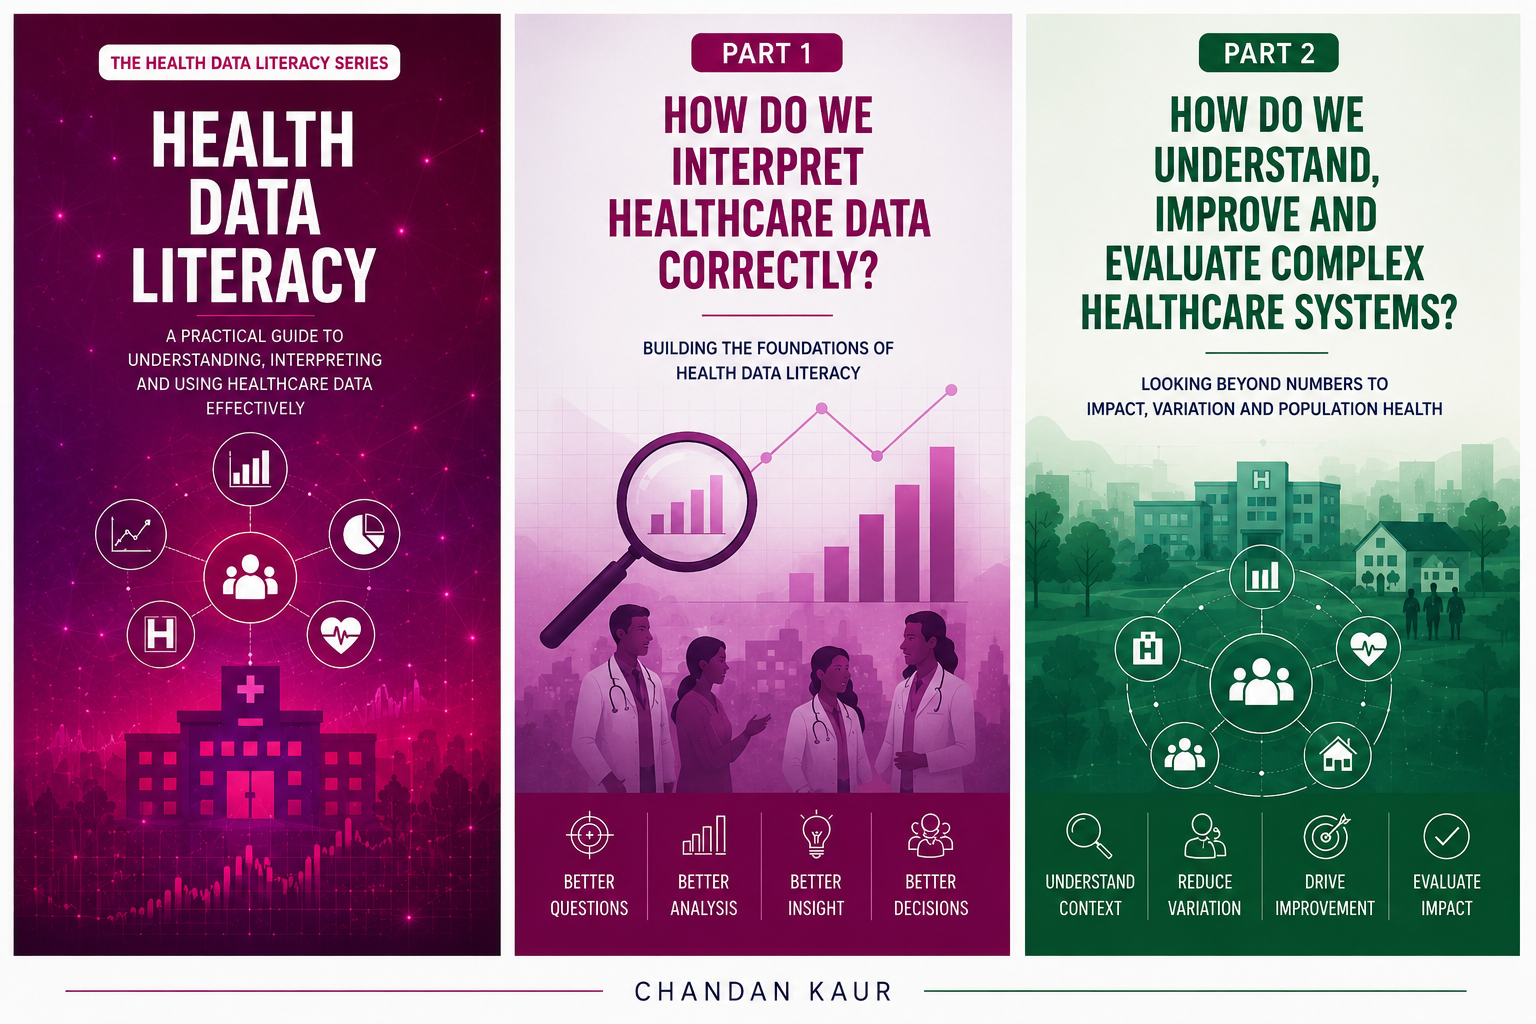
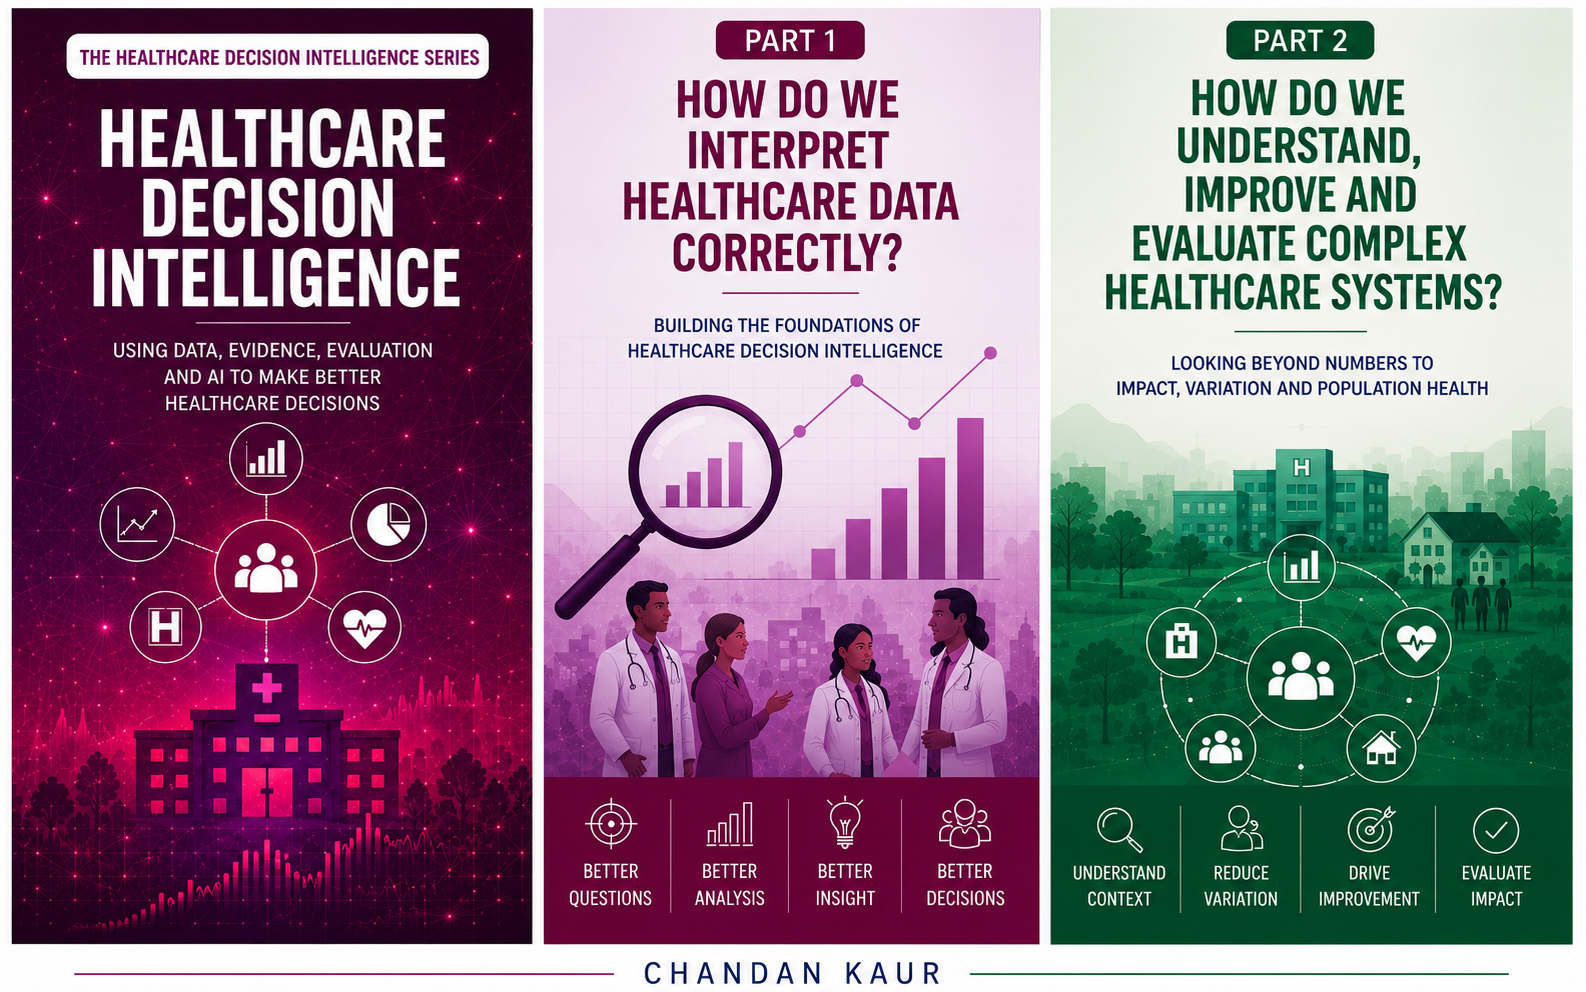
Built site for gh-pages

diff --git a/Project.html b/Project.html
@@ -7,7 +7,7 @@
 <meta name="viewport" content="width=device-width, initial-scale=1.0, user-scalable=yes">
 
 
-<title>Project - Health Data Literacy Series – Health Data Literacy</title>
+<title>Project - Healthcare Decision Intelligence Series – Health Data Literacy</title>
 <style>
 /* Default styles provided by pandoc.
 ** See https://pandoc.org/MANUAL.html#variables-for-html for config info.
@@ -98,7 +98,7 @@ ul.task-list li input[type="checkbox"] {
       <button type="button" class="quarto-btn-toggle btn" data-bs-toggle="collapse" role="button" data-bs-target=".quarto-sidebar-collapse-item" aria-controls="quarto-sidebar" aria-expanded="false" aria-label="Toggle sidebar navigation" onclick="if (window.quartoToggleHeadroom) { window.quartoToggleHeadroom(); }">
         <i class="bi bi-layout-text-sidebar-reverse"></i>
       </button>
-        <nav class="quarto-page-breadcrumbs" aria-label="breadcrumb"><ol class="breadcrumb"><li class="breadcrumb-item"><a href="./Project.html"><span class="chapter-title">Project - Health Data Literacy Series</span></a></li></ol></nav>
+        <nav class="quarto-page-breadcrumbs" aria-label="breadcrumb"><ol class="breadcrumb"><li class="breadcrumb-item"><a href="./Project.html"><span class="chapter-title">Project - Healthcare Decision Intelligence Series</span></a></li></ol></nav>
         <a class="flex-grow-1" role="navigation" data-bs-toggle="collapse" data-bs-target=".quarto-sidebar-collapse-item" aria-controls="quarto-sidebar" aria-expanded="false" aria-label="Toggle sidebar navigation" onclick="if (window.quartoToggleHeadroom) { window.quartoToggleHeadroom(); }">      
         </a>
       <button type="button" class="btn quarto-search-button" aria-label="Search" onclick="window.quartoOpenSearch();">
@@ -215,7 +215,7 @@ ul.task-list li input[type="checkbox"] {
 </li>
         <li class="sidebar-item">
   <div class="sidebar-item-container"> 
-  <a href="./Project.html" class="sidebar-item-text sidebar-link active"><span class="chapter-title">Project - Health Data Literacy Series</span></a>
+  <a href="./Project.html" class="sidebar-item-text sidebar-link active"><span class="chapter-title">Project - Healthcare Decision Intelligence Series</span></a>
   </div>
 </li>
     </ul>
@@ -228,7 +228,7 @@ ul.task-list li input[type="checkbox"] {
     <h2 id="toc-title">Table of contents</h2>
    
   <ul>
-  <li><a href="#supporting-better-questions-better-analysis-better-decisions-in-health" id="toc-supporting-better-questions-better-analysis-better-decisions-in-health" class="nav-link active" data-scroll-target="#supporting-better-questions-better-analysis-better-decisions-in-health">Supporting Better Questions, Better Analysis &amp; Better Decisions in Health</a></li>
+  <li><a href="#using-data-evidence-evaluation-and-ai-to-make-better-healthcare-decisions" id="toc-using-data-evidence-evaluation-and-ai-to-make-better-healthcare-decisions" class="nav-link active" data-scroll-target="#using-data-evidence-evaluation-and-ai-to-make-better-healthcare-decisions">Using Data, Evidence, Evaluation and AI to Make Better Healthcare Decisions</a></li>
   <li><a href="#project-overview" id="toc-project-overview" class="nav-link" data-scroll-target="#project-overview">Project Overview</a>
   <ul class="collapse">
   <li><a href="#the-series-aims-to-bridge-the-gap-between" id="toc-the-series-aims-to-bridge-the-gap-between" class="nav-link" data-scroll-target="#the-series-aims-to-bridge-the-gap-between">The series aims to bridge the gap between:</a></li>
@@ -276,7 +276,7 @@ ul.task-list li input[type="checkbox"] {
 
 <header id="title-block-header" class="quarto-title-block default">
 <div class="quarto-title">
-<h1 class="title"><span class="chapter-title">Project - Health Data Literacy Series</span></h1>
+<h1 class="title"><span class="chapter-title">Project - Healthcare Decision Intelligence Series</span></h1>
 </div>
 
 
@@ -293,16 +293,16 @@ ul.task-list li input[type="checkbox"] {
 </header>
 
 
-<section id="supporting-better-questions-better-analysis-better-decisions-in-health" class="level2">
-<h2 class="anchored" data-anchor-id="supporting-better-questions-better-analysis-better-decisions-in-health">Supporting Better Questions, Better Analysis &amp; Better Decisions in Health</h2>
+<section id="using-data-evidence-evaluation-and-ai-to-make-better-healthcare-decisions" class="level2">
+<h2 class="anchored" data-anchor-id="using-data-evidence-evaluation-and-ai-to-make-better-healthcare-decisions">Using Data, Evidence, Evaluation and AI to Make Better Healthcare Decisions</h2>
 <p>Timeline: May 2026 to November 2026</p>
 <p>Author: Chandan Kaur</p>
 <p>Collaborators:</p>
-<p>Audience: Analysts and Decision Makers</p>
+<p>Audience: Analysts and Decision Makers in healthcare systems</p>
 </section>
 <section id="project-overview" class="level1">
 <h1>Project Overview</h1>
-<p>The Healthcare Data Literacy Series is a practical, NHS-focused educational resource designed to improve understanding, interpretation and use of healthcare analytics across healthcare systems.</p>
+<p>The Healthcare Decision Intelligence Series is a practical, NHS-focused educational resource designed to improve understanding, interpretation and use of healthcare analytics across healthcare systems.</p>
 <section id="the-series-aims-to-bridge-the-gap-between" class="level2">
 <h2 class="anchored" data-anchor-id="the-series-aims-to-bridge-the-gap-between">The series aims to bridge the gap between:</h2>
 <p>healthcare analysts and decision-makers, operational leaders, clinicians and service managers.</p>
@@ -337,7 +337,7 @@ ul.task-list li input[type="checkbox"] {
 </ul>
 <p>This project aims to improve:</p>
 <ul>
-<li>healthcare data literacy</li>
+<li>healthcare decision intelligence</li>
 <li>analytical questioning</li>
 <li>interpretation of metrics</li>
 <li>understanding of variation and fairness</li>
@@ -438,6 +438,10 @@ ul.task-list li input[type="checkbox"] {
 <li>Health Economics &amp; Value in Healthcare Decision-Making ⭐
 <ul>
 <li>Is the improvement worth the investment?</li>
+</ul></li>
+<li>Evaluating Change in Complex Healthcare Systems ⭐
+<ul>
+<li>Understanding how multiple interventions, organisations and contextual factors contribute to healthcare improvement.</li>
 </ul></li>
 <li>Population Health Management &amp; Population Segmentation
 <ul>

diff --git a/modules/14-Health-Economics-&-Value-in-Healthcare-Decision-Making.html b/modules/14-Health-Economics-&-Value-in-Healthcare-Decision-Making.html
@@ -216,7 +216,7 @@ ul.task-list li input[type="checkbox"] {
 </li>
         <li class="sidebar-item">
   <div class="sidebar-item-container"> 
-  <a href="../Project.html" class="sidebar-item-text sidebar-link"><span class="chapter-title">Project - Health Data Literacy Series</span></a>
+  <a href="../Project.html" class="sidebar-item-text sidebar-link"><span class="chapter-title">Project - Healthcare Decision Intelligence Series</span></a>
   </div>
 </li>
     </ul>
@@ -773,8 +773,8 @@ ul.task-list li input[type="checkbox"] {
       </a>          
   </div>
   <div class="nav-page nav-page-next">
-      <a href="../Project.html" class="pagination-link" aria-label="Project - Health Data Literacy Series">
-        <span class="nav-page-text"><span class="chapter-title">Project - Health Data Literacy Series</span></span> <i class="bi bi-arrow-right-short"></i>
+      <a href="../Project.html" class="pagination-link" aria-label="Project - Healthcare Decision Intelligence Series">
+        <span class="nav-page-text"><span class="chapter-title">Project - Healthcare Decision Intelligence Series</span></span> <i class="bi bi-arrow-right-short"></i>
       </a>
   </div>
 </nav>

diff --git a/Book_Cover.html b/Book_Cover.html
@@ -215,7 +215,7 @@ ul.task-list li input[type="checkbox"] {
 </li>
         <li class="sidebar-item">
   <div class="sidebar-item-container"> 
-  <a href="./Project.html" class="sidebar-item-text sidebar-link"><span class="chapter-title">Project - Health Data Literacy Series</span></a>
+  <a href="./Project.html" class="sidebar-item-text sidebar-link"><span class="chapter-title">Project - Healthcare Decision Intelligence Series</span></a>
   </div>
 </li>
     </ul>

diff --git a/Part_1.html b/Part_1.html
@@ -216,7 +216,7 @@ ul.task-list li input[type="checkbox"] {
 </li>
         <li class="sidebar-item">
   <div class="sidebar-item-container"> 
-  <a href="./Project.html" class="sidebar-item-text sidebar-link"><span class="chapter-title">Project - Health Data Literacy Series</span></a>
+  <a href="./Project.html" class="sidebar-item-text sidebar-link"><span class="chapter-title">Project - Healthcare Decision Intelligence Series</span></a>
   </div>
 </li>
     </ul>

diff --git a/Part_2.html b/Part_2.html
@@ -216,7 +216,7 @@ ul.task-list li input[type="checkbox"] {
 </li>
         <li class="sidebar-item">
   <div class="sidebar-item-container"> 
-  <a href="./Project.html" class="sidebar-item-text sidebar-link"><span class="chapter-title">Project - Health Data Literacy Series</span></a>
+  <a href="./Project.html" class="sidebar-item-text sidebar-link"><span class="chapter-title">Project - Healthcare Decision Intelligence Series</span></a>
   </div>
 </li>
     </ul>

diff --git a/index.html b/index.html
@@ -217,7 +217,7 @@ ul.task-list li input[type="checkbox"] {
 </li>
         <li class="sidebar-item">
   <div class="sidebar-item-container"> 
-  <a href="./Project.html" class="sidebar-item-text sidebar-link"><span class="chapter-title">Project - Health Data Literacy Series</span></a>
+  <a href="./Project.html" class="sidebar-item-text sidebar-link"><span class="chapter-title">Project - Healthcare Decision Intelligence Series</span></a>
   </div>
 </li>
     </ul>

diff --git a/modules/01-Counts-vs-Rates.html b/modules/01-Counts-vs-Rates.html
@@ -216,7 +216,7 @@ ul.task-list li input[type="checkbox"] {
 </li>
         <li class="sidebar-item">
   <div class="sidebar-item-container"> 
-  <a href="../Project.html" class="sidebar-item-text sidebar-link"><span class="chapter-title">Project - Health Data Literacy Series</span></a>
+  <a href="../Project.html" class="sidebar-item-text sidebar-link"><span class="chapter-title">Project - Healthcare Decision Intelligence Series</span></a>
   </div>
 </li>
     </ul>

diff --git a/modules/02-Mean-vs-Median.html b/modules/02-Mean-vs-Median.html
@@ -216,7 +216,7 @@ ul.task-list li input[type="checkbox"] {
 </li>
         <li class="sidebar-item">
   <div class="sidebar-item-container"> 
-  <a href="../Project.html" class="sidebar-item-text sidebar-link"><span class="chapter-title">Project - Health Data Literacy Series</span></a>
+  <a href="../Project.html" class="sidebar-item-text sidebar-link"><span class="chapter-title">Project - Healthcare Decision Intelligence Series</span></a>
   </div>
 </li>
     </ul>

diff --git a/modules/03-Correlation-vs-Causation.html b/modules/03-Correlation-vs-Causation.html
@@ -216,7 +216,7 @@ ul.task-list li input[type="checkbox"] {
 </li>
         <li class="sidebar-item">
   <div class="sidebar-item-container"> 
-  <a href="../Project.html" class="sidebar-item-text sidebar-link"><span class="chapter-title">Project - Health Data Literacy Series</span></a>
+  <a href="../Project.html" class="sidebar-item-text sidebar-link"><span class="chapter-title">Project - Healthcare Decision Intelligence Series</span></a>
   </div>
 </li>
     </ul>

diff --git a/modules/04-Variation-&-Distributions.html b/modules/04-Variation-&-Distributions.html
@@ -216,7 +216,7 @@ ul.task-list li input[type="checkbox"] {
 </li>
         <li class="sidebar-item">
   <div class="sidebar-item-container"> 
-  <a href="../Project.html" class="sidebar-item-text sidebar-link"><span class="chapter-title">Project - Health Data Literacy Series</span></a>
+  <a href="../Project.html" class="sidebar-item-text sidebar-link"><span class="chapter-title">Project - Healthcare Decision Intelligence Series</span></a>
   </div>
 </li>
     </ul>

diff --git a/modules/05-Standardisation-&-Fair-Comparison.html b/modules/05-Standardisation-&-Fair-Comparison.html
@@ -245,7 +245,7 @@ window.Quarto = {
 </li>
         <li class="sidebar-item">
   <div class="sidebar-item-container"> 
-  <a href="../Project.html" class="sidebar-item-text sidebar-link"><span class="chapter-title">Project - Health Data Literacy Series</span></a>
+  <a href="../Project.html" class="sidebar-item-text sidebar-link"><span class="chapter-title">Project - Healthcare Decision Intelligence Series</span></a>
   </div>
 </li>
     </ul>

diff --git a/modules/06-How-to-Read-a-Dashboard.html b/modules/06-How-to-Read-a-Dashboard.html
@@ -216,7 +216,7 @@ ul.task-list li input[type="checkbox"] {
 </li>
         <li class="sidebar-item">
   <div class="sidebar-item-container"> 
-  <a href="../Project.html" class="sidebar-item-text sidebar-link"><span class="chapter-title">Project - Health Data Literacy Series</span></a>
+  <a href="../Project.html" class="sidebar-item-text sidebar-link"><span class="chapter-title">Project - Healthcare Decision Intelligence Series</span></a>
   </div>
 </li>
     </ul>